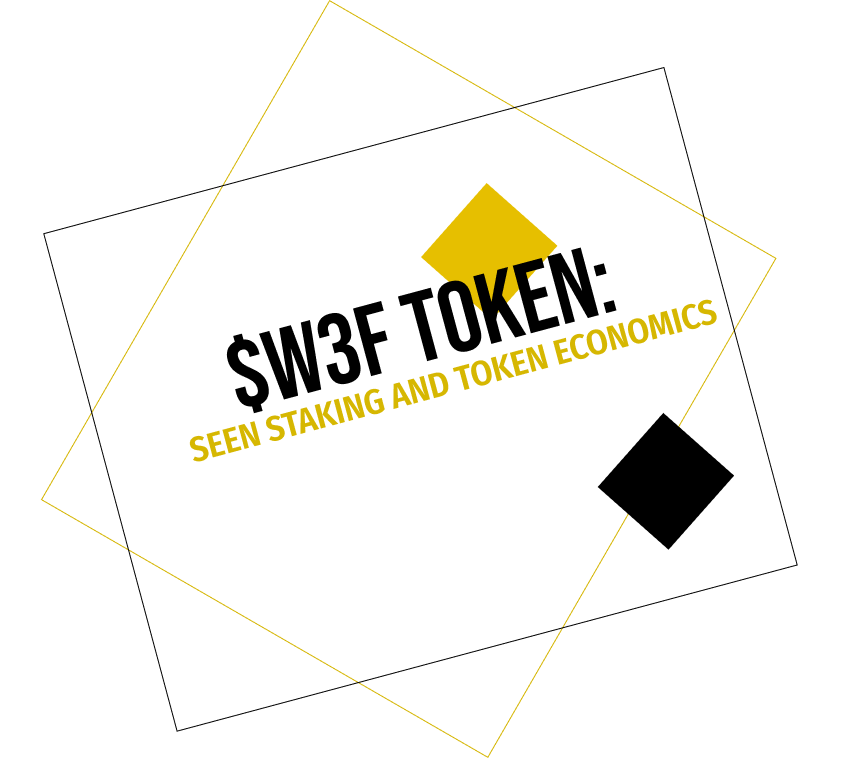
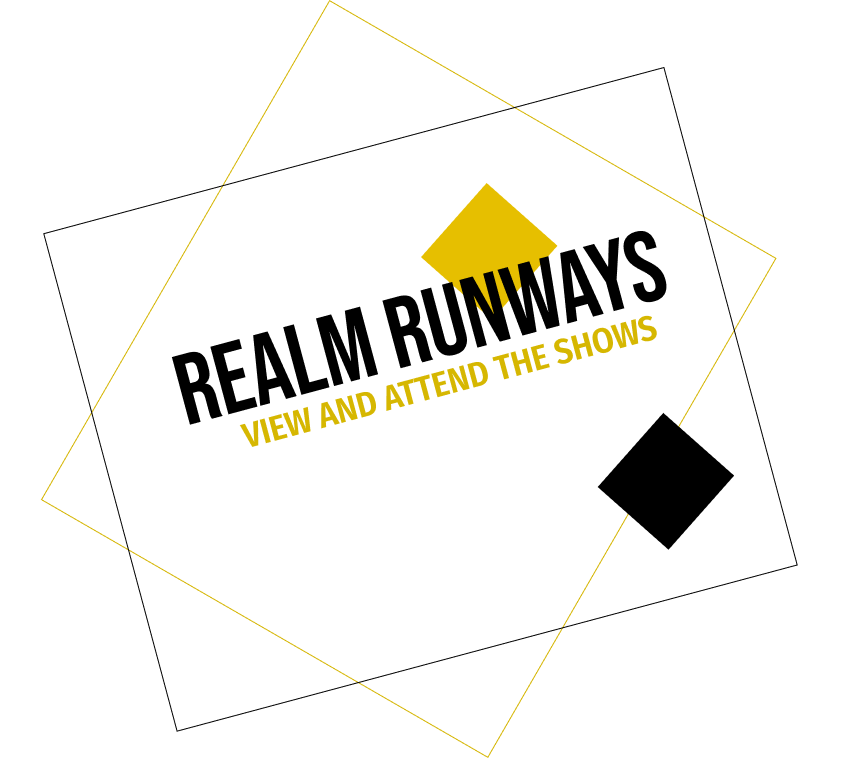
feat: update enter page

Changed region(s): [[0.1851, 0.3034, 0.8636, 0.6069]]

diff --git a/src/pages/enter/index.js b/src/pages/enter/index.js
@@ -139,7 +139,7 @@ function Home(props) {
           
           <div className="relative productimg mt-10 md:mt-0">
             <img src="/images/product6.png" className="w-full enterimg" alt="" />
-            <a href="https://digitalax.gitbook.io/digitalax/token-economy/token-distribution#usdw3f.-erc-20" target='_blank'>
+            <a href="https://realmrunway.xyz" target='_blank'>
               <img
                 src="/images/homepage/right_arrow.png"
                 className={[styles.arrowImage, "z-50 w-28 animate-horizonbounce"].join(' ')}

diff --git a/src/pages/avatarlibraries/index.js b/src/pages/avatarlibraries/index.js
@@ -61,7 +61,7 @@ const AvatarLibraries = (props) => {
     )
     
     console.log('avatarElementals: ', result)
-    setAvatarElementals(result)
+    setAvatarElementals(result.filter(item => parseInt(item.id) > 100014))
     setLoading(false)
   }
 

diff --git a/src/pages/models/[id]/index.js b/src/pages/models/[id]/index.js
@@ -142,6 +142,7 @@ const ModelPage = () => {
     setAvatarElementals(
       result.filter(
         item => getAttribute(item, 'Minter').toLowerCase() === model.modelId.toLowerCase()
+          && parseInt(item.id) > 100014
       )
     )
   }

diff --git a/src/pages/avatarlibraries/styles.module.scss b/src/pages/avatarlibraries/styles.module.scss
@@ -6,6 +6,7 @@
   margin-bottom: 25px;
   margin-top: 68px;
   width: 100%;
+  min-width: 500px;
 
   .content {
     h1 {
